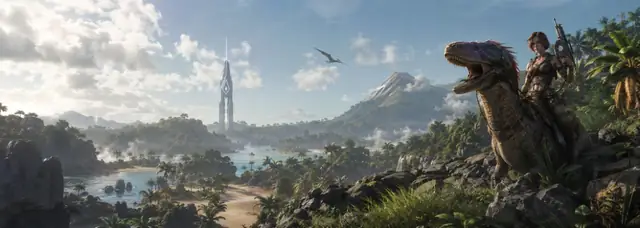
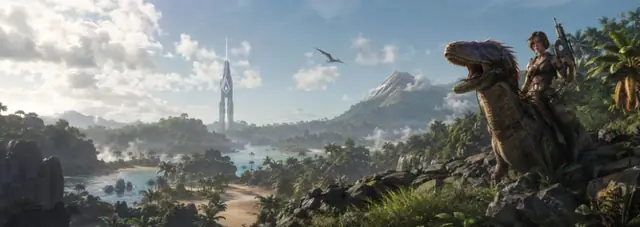
Upgrade hero to ultra HD 4K with responsive srcset ladder
- Upscale cinematic hero to 3840x1365 master (ark-hacks-hero-source-4k.jpg)
- Generate WebP ladder: 640w through 3840w for retina and large displays
- Default LCP/preload uses 1920w for sharp quality with fast paint
- Update brand OG image and page crawl images to 1920w
- Add setup-hero-4k.mjs script for future regenerations

diff --git a/src/lib/responsive-images.ts b/src/lib/responsive-images.ts
@@ -38,28 +38,32 @@ export function contentSrcSet(baseSrc: string): string | undefined {
 }
 
 /**
- * Homepage / banner hero — compressed WebP ladder (not the 375KB+ PNG master).
- * Native art ~1024×409 (~2.5:1).
+ * Homepage / banner hero — 4K master with responsive WebP ladder.
+ * Native art 3840×1365 (~2.81:1).
  */
 export const heroResponsive: ResponsiveWidth[] = [
 	{ src: '/images/ark-hacks-hero-640w.webp', width: 640 },
 	{ src: '/images/ark-hacks-hero-1024w.webp', width: 1024 },
+	{ src: '/images/ark-hacks-hero-1536w.webp', width: 1536 },
+	{ src: '/images/ark-hacks-hero-1920w.webp', width: 1920 },
+	{ src: '/images/ark-hacks-hero-2560w.webp', width: 2560 },
+	{ src: '/images/ark-hacks-hero-3840w.webp', width: 3840 },
 ];
 
 export const heroDesktopResponsive: ResponsiveWidth[] = heroResponsive;
 
-/** Default LCP src — mid ladder WebP (~56KB). */
-export const heroSrc = '/images/ark-hacks-hero-1024w.webp';
+/** Default LCP src — 1920w sharp desktop balance. */
+export const heroSrc = '/images/ark-hacks-hero-1920w.webp';
 export const heroSrcSet = buildSrcSet(heroResponsive);
 export const heroSizes = '100vw';
 
-/** LCP preload — same compressed WebP. */
-export const heroPreloadSrc = heroSrc;
+/** LCP preload — 1920w WebP for fast high-quality paint. */
+export const heroPreloadSrc = '/images/ark-hacks-hero-1920w.webp';
 export const heroMimeType = 'image/webp';
 
-/** Exact native dimensions (no zoom crop). */
-export const heroWidth = 1024;
-export const heroHeight = 364;
+/** Native 4K dimensions for aspect ratio / layout stability. */
+export const heroWidth = 3840;
+export const heroHeight = 1365;
 
 /** Responsive widths for below-fold content images. */
 export const contentWidths = [480, 960] as const;

diff --git a/src/data/page-images.ts b/src/data/page-images.ts
@@ -18,25 +18,25 @@ export const crawlPhotoPool = [
  * Prefer compressed WebP screenshots so Google can fetch them quickly.
  */
 export const pageImageSrcById: Record<PageId, string> = {
-	home: '/images/ark-hacks-hero-1024w.webp',
+	home: '/images/ark-hacks-hero-1920w.webp',
 	'ark-esp': arkImages.playerEsp,
 	'ark-aimbot': arkImages.aimbotCombat,
 	features: arkImages.aimbotSkeleton,
 	pricing: arkImages.cheatsCombat,
 	setup: arkImages.playerEsp,
-	updates: '/images/ark-hacks-hero-1024w.webp',
+	updates: '/images/ark-hacks-hero-1920w.webp',
 	faq: arkImages.aimbotSkeleton,
 	support: arkImages.cheatsCombat,
 	undetected: arkImages.espWallhack,
 	wallhack: arkImages.espWallhack,
 	radar: arkImages.playerEsp,
 	eac: arkImages.aimbotCombat,
-	'cheats-2026': '/images/ark-hacks-hero-1024w.webp',
+	'cheats-2026': '/images/ark-hacks-hero-1920w.webp',
 	hacks: arkImages.cheatsCombat,
 	'cheat-download': arkImages.cheatsCombat,
 	'mod-menu': arkImages.playerEsp,
 	'soft-aim': arkImages.aimbotSkeleton,
-	'best-cheats': '/images/ark-hacks-hero-1024w.webp',
+	'best-cheats': '/images/ark-hacks-hero-1920w.webp',
 	'aimbot-hack': arkImages.aimbotSkeleton,
 	'esp-hack': arkImages.espWallhack,
 	'unlock-all': arkImages.playerEsp,

diff --git a/src/data/brand.ts b/src/data/brand.ts
@@ -25,8 +25,8 @@ export const brand = {
 	logoRasterWidth: 512,
 	logoRasterHeight: 512,
 	logoAlt: 'ARK Hacks logo',
-	defaultOgImage: '/images/ark-hacks-hero-1024w.webp',
-	heroImage: '/images/ark-hacks-hero-1024w.webp',
+	defaultOgImage: '/images/ark-hacks-hero-1920w.webp',
+	heroImage: '/images/ark-hacks-hero-1920w.webp',
 
 	plans: [
 		{ id: 'monthly', label: 'Monthly', price: 35, duration: 'P30D' },
